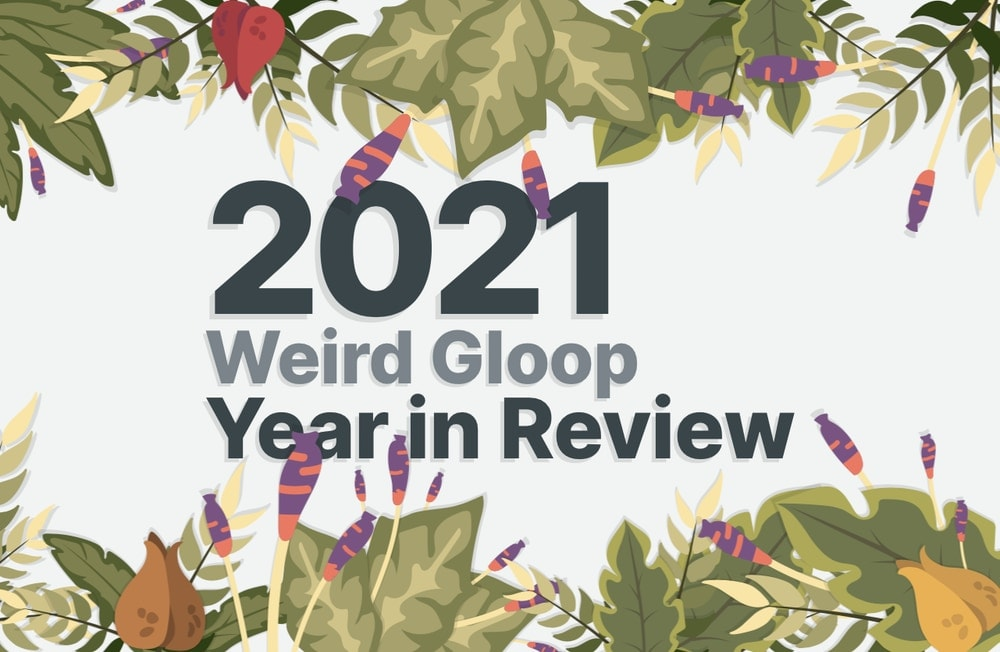
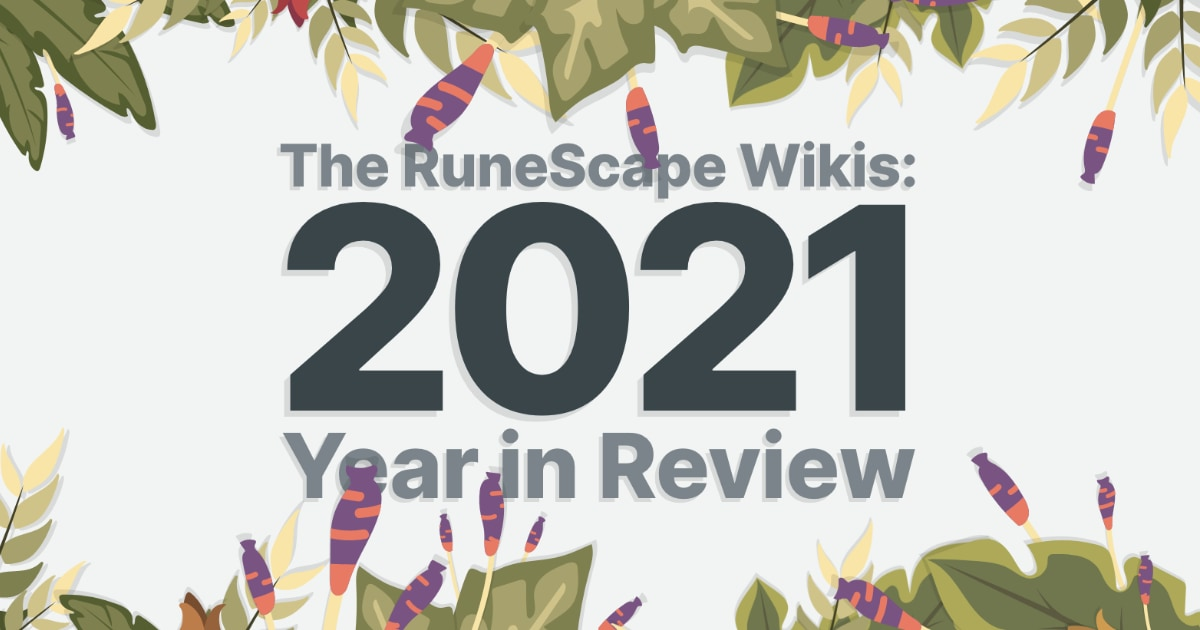
header + wording

diff --git a/index.html b/index.html
@@ -5,7 +5,7 @@
     <meta charset="utf-8">
     <meta name="viewport" content="width=device-width, initial-scale=1">
     <meta name="description" content="See what's new, what's changed, and what the RuneScape Wikis have achieved in 2021.">
-    <meta property="og:title" content="The RuneScape Wikis' 2021 Year in Review">
+    <meta property="og:title" content="The RuneScape Wikis - 2021 Year in Review">
     <meta property="og:type" content="website">
     <meta property="og:image" content="https://raw.githubusercontent.com/Iiii-I-I-I/year-in-review-2021/main/images/opengraph-preview.jpg">
     <meta property="og:url" content="https://weirdgloop.org/2021-year-in-review/">
@@ -26,8 +26,8 @@
 <body>
     <header>
         <h1 class="title">
-            <span class="top">2021</span>
-            <span class="center">Weird Gloop</span>
+            <span class="top">The RuneScape Wikis:</span>
+            <span class="center">2021</span>
             <span class="bottom">Year in Review</span>
         </h1>
         <div class="plants">
@@ -51,7 +51,7 @@
     <main class="container">
         <!-- INTRO -->
         <section>
-            <p>Through all that has happened in 2021, many of us found comfort by logging in to RuneScape and Old School RuneScape. We at <a class="link" target="_blank" rel="noopener" href="https://weirdgloop.org">Weird Gloop</a> are dedicated to hosting the RuneScape Wikis, the best resources for the games, and the wiki community has been hard at work &mdash; including creating the most articles ever in a year. Read on to see what's new, what's changed, and how the community has come together in 2021.</p>
+            <p>Through all that has happened in 2021, many of us found comfort by logging in to RuneScape and Old School RuneScape. The RuneScape Wiki community has been hard at work adding features and writing articles &mdash; the most that have ever been created in a single year. Read on to see what's new, what's changed, and how the community has come together in 2021.</p>
             <div class="wiki-cards">
                 <a class="wiki-card card-rs" href="https://runescape.wiki" target="_blank" rel="noopener"><span>RuneScape<br />Wiki</span></a>
                 <a class="wiki-card card-osrs" href="https://oldschool.runescape.wiki" target="_blank" rel="noopener"><span>Old School RuneScape Wiki</span></a>
@@ -446,7 +446,7 @@
         <!-- TECHNICAL -->
         <section>
             <h2 id="technical">Technical changes</h2>
-            <p>In the second half of 2021, the Weird Gloop sysadmins were hard at work on a major upgrade to the wiki servers. Launching progressively between September and November, we moved our infrastructure from OVH to Google Cloud. This gave us increased reliability, greater flexibility, and faster load times for page views that hit our servers.</p>
+            <p>In the second half of 2021, the Weird Gloop sysadmins were hard at work on a major upgrade to the wiki servers. Launching progressively between September and November, we moved our infrastructure from OVH to Google Cloud. This gave us increased reliability, greater flexibility, and faster load times for page views that hit the wiki servers.</p>
             <p>Below, we've graphed the wikis' time to first byte (TTFB), which measures how long it takes for your browser to receive the first byte of page content from the server. TTFB is a good indicator of how responsive a site is &mdash; the lower, the better.</p>
             <div class="dygraph-container site-speed">
                 <div class="dygraph-title">Time to first byte <span style="opacity: .7">(7-day rolling avg.)</span></div>
@@ -455,8 +455,8 @@
                 <div class="dygraph-graph" style="width: 100%; height: 300px"></div>
                 <div class="dygraph-x-labels"></div>
             </div>
-            <p>The wikis had an average TTFB of 270 milliseconds over the past year. For comparison, that's <a class="link" target="_blank" rel="noopener" href="https://performance.wikimedia.org/#!/year">20 percent faster than Wikipedia</a>, which averaged 340 milliseconds. When combined with <a class="link" target="_blank" rel="noopener" href="https://blog.cloudflare.com/orpheus/">improvements to our CDN</a>, these changes cut our average page load time nearly in half!</p>
-            <p>As part of this infrastructure upgrade, we also upgraded our version of MediaWiki, which is the main software used to operate the wikis. Moving to <a class="link" target="_blank" rel="noopener" href="https://www.mediawiki.org/wiki/MediaWiki_1.36">MediaWiki 1.36</a> was (hopefully) barely noticed by most readers, but behind the scenes it's a huge deal: it makes the wikis faster, more secure, and use less resources &mdash; and also unblocks some cool features like user renames. Our upgrades helped keep us competitive with better-funded projects in pushing MediaWiki to its limits.</p>
+            <p>The wikis had an average TTFB of 270 milliseconds over the past year. For comparison, that's <a class="link" target="_blank" rel="noopener" href="https://performance.wikimedia.org/#!/year">20 percent faster than Wikipedia</a>, which averaged 340 milliseconds. When combined with <a class="link" target="_blank" rel="noopener" href="https://blog.cloudflare.com/orpheus/">improvements to our CDN</a>, these changes cut the average page load time nearly in half!</p>
+            <p>As part of this infrastructure upgrade, we also upgraded our version of MediaWiki, which is the main software used to operate the wikis. Moving to <a class="link" target="_blank" rel="noopener" href="https://www.mediawiki.org/wiki/MediaWiki_1.36">MediaWiki 1.36</a> was (hopefully) barely noticed by most readers, but behind the scenes it's a huge deal: it makes the wikis faster, more secure, and use less resources &mdash; and also unblocks some cool features like user renames. These upgrades helped keep us competitive with better-funded projects in pushing MediaWiki to its limits.</p>
         </section>
         <!-- QUIZ -->
         <section>

diff --git a/styles/main.css b/styles/main.css
@@ -265,7 +265,7 @@ p {
    -------------- */
 
 header {
-    --header-size: 5.5rem;
+    --header-size: 5rem;
 
     display: flex;
     justify-content: center;
@@ -279,8 +279,7 @@ header {
 }
 
 .title {
-    margin-top: -1em;
-    text-shadow: -6px 6px 0 #d8dada;
+    text-align: center;
 }
 
 .title > span {
@@ -288,20 +287,21 @@ header {
 }
 
 .title .top {
-    font-size: calc(var(--header-size) * 2.5);
-    text-shadow: -7px 7px 0 #d8dada;
-    letter-spacing: -0.05em;
+    color: var(--text-03);
+    font-size: calc(var(--header-size) * 0.85);
+    text-shadow: -5px 5px 0 #d8dada;
 }
 
 .title .center {
-    color: var(--text-03);
-    font-size: var(--header-size);
-    text-shadow: -4px 4px 0 #d8dada;
-    margin: -0.25em 0 -0.1em;
+    font-size: calc(var(--header-size) * 4.1);
+    text-shadow: -8px 8px 0 #d8dada;
+    letter-spacing: -0.05em;
+    margin: -0.1em 0;
 }
 
 .title .bottom {
-    font-size: calc(var(--header-size) * 1.15);
+    color: var(--text-03);
+    font-size: calc(var(--header-size) * 1.3);
     text-shadow: -5px 5px 0 #d8dada;
 }
 
@@ -314,7 +314,7 @@ header {
 }
 
 .plants-side {
-    --spread: -25px;
+    --spread: -65px;
 
     position: absolute;
     left: var(--spread);
